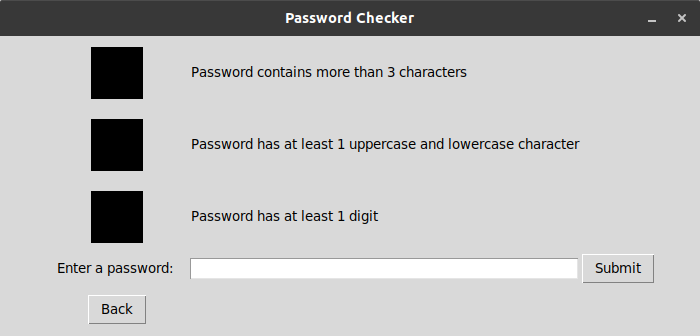
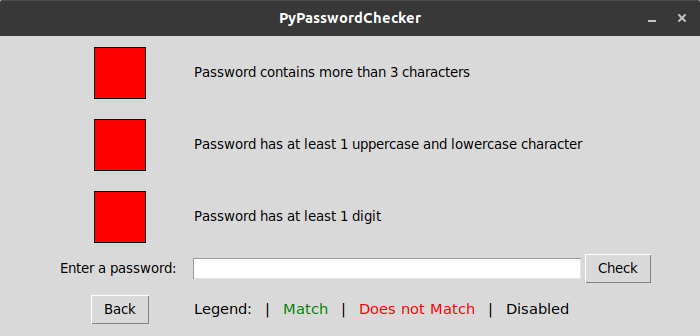
Added more parameters and a color legend Moved images to asset folder Updated screenshots Minor fixes

diff --git a/main.py b/main.py
@@ -2,7 +2,6 @@ import tkinter as tk
 import re
 import sys
 
-DEFAULTBG = "black"
 BLANKIMG = '''
[1 lines of base64/hex data omitted]
 '''
@@ -17,15 +16,25 @@ class MainApplication(tk.Frame):
         tk.Frame.__init__(self, master)
 
         self.master = master
-        master.title("Password Checker")
+        master.title("PyPasswordChecker")
+        master.tk.call('wm', 'iconphoto', master._w, tk.PhotoImage(file='assets/logo.png'))
         master.geometry("700x300")
         master.resizable(width=False, height=False)
-        master.tk.call('wm', 'iconphoto', master._w, tk.PhotoImage(file='logo.png'))
+        master.grid_columnconfigure(0, weight=1)
+        master.grid_rowconfigure(0, weight=1)
 
         self._frame = None
         self.switch_frame(MenuPage)
 
         self.password_length = 3
+        self.password_case = True
+        self.password_digit = True
+
+    def casecolor(self):
+        return "red" if self.password_case else "black"
+
+    def digitcolor(self):
+        return "red" if self.password_digit else "black"
 
     def switch_frame(self, frame_class):
         new_frame = frame_class(self)
@@ -38,8 +47,11 @@ class MainApplication(tk.Frame):
 class MenuPage(tk.Frame):
     def __init__(self, master):
         tk.Frame.__init__(self, master)
+        self.logo = tk.PhotoImage(file='assets/logo_small.png')
         start_label = tk.Label(
-            self, text="Password Checker\n", font=(None, 24)
+            self, text="PyPasswordChecker", font=(None, 24),
+            image=self.logo,
+            compound=tk.RIGHT
         )
         start_label.grid(row=0, column=0, sticky=tk.NSEW)
 
@@ -66,17 +78,45 @@ class SettingsPage(tk.Frame):
     def __init__(self, master):
         tk.Frame.__init__(self, master)
 
+        self.passwordlen_var = tk.IntVar()
+        self.passwordlen_var.set(master.password_length)
+        self.passwordcase_var = tk.BooleanVar()
+        self.passwordcase_var.set(master.password_case)
+        self.passworddigit_var = tk.BooleanVar()
+        self.passworddigit_var.set(master.password_digit)
+
         frame_1 = tk.Frame(self)
-        passwordlen_label = tk.Label(frame_1, text="\nLength of Password:", font=("", 12))
+        passwordlen_label = tk.Label(frame_1, text="\nMinimum Password Length:", font=("", 11))
         passwordlen_label.pack(side=tk.LEFT, fill=tk.BOTH)
 
-        passwordlen_scale = tk.Scale(frame_1, from_=3, to=30, orient=tk.HORIZONTAL)
-        passwordlen_scale.pack()
-        frame_1.grid(pady=10)
+        self.passwordlen_scale = tk.Scale(
+            frame_1, from_=3, to=30, orient=tk.HORIZONTAL,
+            variable=self.passwordlen_var
+        )
+        self.passwordlen_scale.pack()
+        frame_1.grid()
+
+        frame_2 = tk.Frame(self)
+        self.passwordcase_checkbutton = tk.Checkbutton(
+            frame_2, text="Require Uppercase & Lowercase Characters",
+            variable=self.passwordcase_var
+        )
+        self.passwordcase_checkbutton.pack()
+        self.passworddigit_checkbutton = tk.Checkbutton(
+            frame_2, text="Require a Digit",
+            variable=self.passworddigit_var
+        )
+        self.passworddigit_checkbutton.pack(anchor=tk.W)
+        frame_2.grid(pady=10)
 
         end_frame = tk.Frame(self)
         save_button = tk.Button(
-            end_frame, text="Save", command=lambda: self.save_settings(master, passwordlen_scale.get())
+            end_frame, text="Save",
+            command=lambda: self.save_settings(
+                master, self.passwordlen_scale.get(),
+                self.passwordcase_var.get(),
+                self.passworddigit_var.get()
+            )
         )
         save_button.pack(side=tk.LEFT)
 
@@ -86,80 +126,110 @@ class SettingsPage(tk.Frame):
         back_button.pack(side=tk.RIGHT)
         end_frame.grid()
 
-    def save_settings(self, master, length):
+    def save_settings(self, master, length, casevar, digitvar):
         master.password_length = length
+        master.password_case = casevar
+        master.password_digit = digitvar
         master.switch_frame(MenuPage)
 
 
 class MainPage(tk.Frame):
     def __init__(self, master):
         tk.Frame.__init__(self, master)
-
         self.i = tk.PhotoImage(data=BLANKIMG)
-        self.image1 = tk.Label(
-            self, image=self.i, width=50, height=50, relief=tk.SOLID, bg=DEFAULTBG
-        )
-        self.image1.grid(column=0, row=0, padx=10, pady=10)
 
-        text1 = tk.Label(
+        self.passwordlen_image = tk.Label(
+            self, image=self.i, width=50, height=50, relief=tk.SOLID, bg="red"
+        )
+        self.passwordlen_image.grid(column=0, row=0, padx=10, pady=10)
+
+        passwordlen_text = tk.Label(
             self, text="Password contains more than {} characters".format(master.password_length)
         )
-        text1.grid(column=1, row=0, sticky=tk.W)
+        passwordlen_text.grid(column=1, row=0, sticky=tk.W)
 
-        self.image2 = tk.Label(
-            self, image=self.i, width=50, height=50, relief=tk.SOLID, bg=DEFAULTBG
+        self.passwordcase_image = tk.Label(
+            self, image=self.i, width=50, height=50, relief=tk.SOLID, bg=master.casecolor()
         )
-        self.image2.grid(column=0, row=1, padx=10, pady=10)
+        self.passwordcase_image.grid(column=0, row=1, padx=10, pady=10)
 
-        text2 = tk.Label(
+        passwordcase_text = tk.Label(
             self, text="Password has at least 1 uppercase and lowercase character"
         )
-        text2.grid(column=1, row=1, sticky=tk.W)
+        passwordcase_text.grid(column=1, row=1, sticky=tk.W)
 
-        self.image3 = tk.Label(
-            self, image=self.i, width=50, height=50, relief=tk.SOLID, bg=DEFAULTBG
+        self.passworddigit_image = tk.Label(
+            self, image=self.i, width=50, height=50, relief=tk.SOLID, bg=master.digitcolor()
         )
-        self.image3.grid(column=0, row=2, padx=10, pady=10)
+        self.passworddigit_image.grid(column=0, row=2, padx=10, pady=10)
 
-        text3 = tk.Label(self, text="Password has at least 1 digit")
-        text3.grid(column=1, row=2, sticky=tk.W)
+        passworddigit_text = tk.Label(self, text="Password has at least 1 digit")
+        passworddigit_text.grid(column=1, row=2, sticky=tk.W)
 
-        text4 = tk.Label(self, text="Enter a password: ")
-        text4.grid(column=0, row=3, padx=10, sticky=tk.W, columnspan=1)
+        enter_text = tk.Label(self, text="Enter a password: ")
+        enter_text.grid(column=0, row=3, padx=10, sticky=tk.W, columnspan=1)
 
-        self.entry1 = tk.Entry(self, width=48)
-        self.entry1.grid(column=1, row=3, sticky=tk.W)
+        self.password_entry = tk.Entry(self, width=48)
+        self.password_entry.grid(column=1, row=3, sticky=tk.W)
 
-        button1 = tk.Button(
-            self, text="Submit",
-            command=lambda: self.checkPass(master, self.entry1.get())
+        submit_button = tk.Button(
+            self, text="Check",
+            command=lambda: self.checkPass(master, self.password_entry.get())
         )
-        button1.grid(column=2, row=3, sticky=tk.W)
+        submit_button.grid(column=2, row=3, sticky=tk.W)
 
-        button2 = tk.Button(
+        back_button = tk.Button(
             self, text="Back",
             command=lambda: master.switch_frame(MenuPage)
         )
-        button2.grid(column=0, row=4, pady=10)
+        back_button.grid(column=0, row=4, pady=10)
+
+        legend_frame = tk.Frame(self)
+
+        legend_text1 = tk.Label(legend_frame, text="Legend:", font=("", 11))
+        legend_text1.pack(side=tk.LEFT)
+        tk.Label(legend_frame, text="|", font=("", 11), padx=10).pack(side=tk.LEFT)
+
+        legend_text2 = tk.Label(
+            legend_frame, text="Match", font=("", 11), fg="green"
+        )
+        legend_text2.pack(side=tk.LEFT)
+        tk.Label(legend_frame, text="|", font=("", 11), padx=10).pack(side=tk.LEFT)
+
+        legend_text3 = tk.Label(
+            legend_frame, text="Does not Match", font=("", 11), fg="red"
+        )
+        legend_text3.pack(side=tk.LEFT)
+        tk.Label(legend_frame, text="|", font=("", 11), padx=10).pack(side=tk.LEFT)
+
+        legend_text4 = tk.Label(
+            legend_frame, text="Disabled", font=("", 11)
+        )
+        legend_text4.pack(side=tk.LEFT)
+        legend_frame.grid(column=1, row=4, sticky=tk.W)
 
     def checkPass(self, master, text):
         if len(text) > master.password_length:
-            self.image1.configure(bg="green")
+            self.passwordlen_image.configure(bg="green")
         else:
-            self.image1.configure(bg="red")
-        if upperRegex.search(text) is None or lowerRegex.search(text) is None:
-            self.image2.configure(bg="red")
+            self.passwordlen_image.configure(bg="red")
+
+        if not master.password_case:
+            self.passwordcase_image.configure(bg="black")
+        elif upperRegex.search(text) is None or lowerRegex.search(text) is None:
+            self.passwordcase_image.configure(bg="red")
         else:
-            self.image2.configure(bg="green")
-        if onedigitRegex.search(text) is None:
-            self.image3.configure(bg="red")
+            self.passwordcase_image.configure(bg="green")
+
+        if not master.password_digit:
+            self.passworddigit_image.configure(bg="black")
+        elif onedigitRegex.search(text) is None:
+            self.passworddigit_image.configure(bg="red")
         else:
-            self.image3.configure(bg="green")
+            self.passworddigit_image.configure(bg="green")
 
 
 if __name__ == "__main__":
     root = tk.Tk()
     MainApplication(root).grid()
-    root.grid_columnconfigure(0, weight=1)
-    root.grid_rowconfigure(0, weight=1)
     root.mainloop()

diff --git a/README.md b/README.md
@@ -13,13 +13,13 @@ A Simple Password Checker<br><br>
 
 ## Installation
 
-1. Download the **[source code](https://github.com/kosayoda/PyPasswordChecker/releases)**
+1. Click the **Clone or download** button in the top right corner then click **Download ZIP**
 
 2. Unpack the **zip file**
 
 3. Run the main script
   ```
-  python3 main.py
+  python main.py
   ```
   > **Note**: Tested in Python 3.6.6
 
